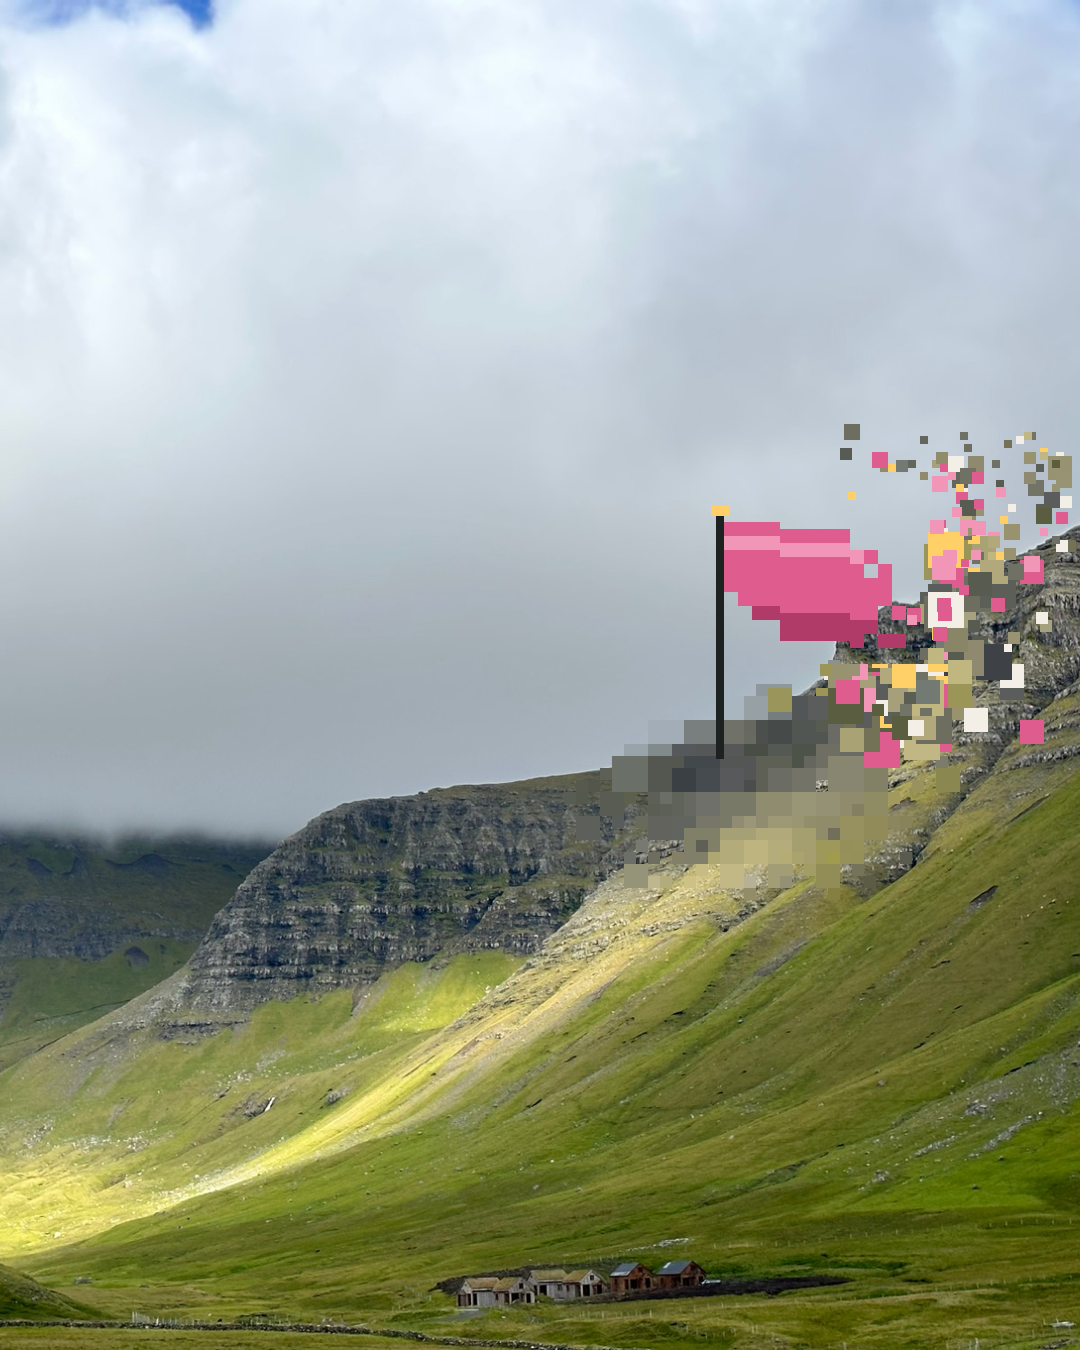
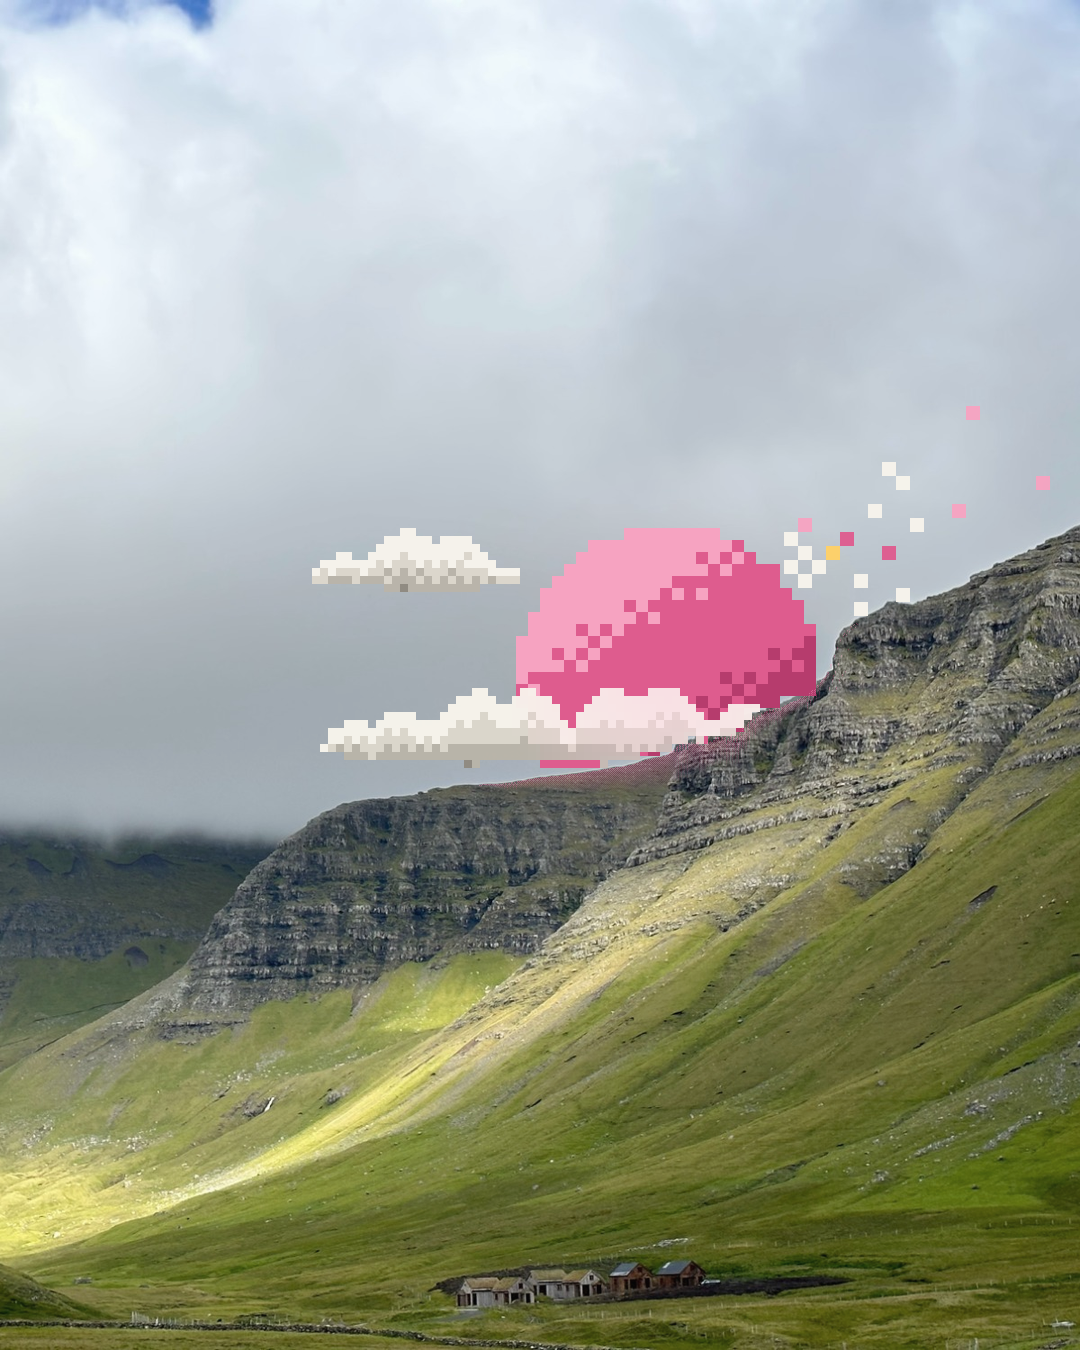
Elemental announcement: a pink pixel sun instead of the flag; CSII equal to the title
The plate is now drawn with the key poster's pixel kit
(scripts/render-elemental-news-plate.mjs): one flat stepped sun behind the
ridge, stepped pixel clouds, checker sparks. The title lockup sets
Elemental Hackathon and the CSII logo at equal weight.

diff --git a/components/hackathon/poster/elemental/news/ElementalNewsPoster.tsx b/components/hackathon/poster/elemental/news/ElementalNewsPoster.tsx
@@ -17,14 +17,15 @@ import { ELEMENTAL, thaiDayRange } from "../facts";
  * (Angpao, same day: "look at our main poster why is it good replicate it
  * not put text all screen with no design"):
  * - one picture fills the sheet, at full brightness, with one bright object
- *   in a calm photo. Here a pink pixel flag on the ridge, breaking into
- *   pixels as on slide 1; pink is Chula's colour on these posters;
+ *   in a calm photo. Here a pink pixel sun coming up behind the ridge, with
+ *   pixel clouds; pink is Chula's colour on these posters;
  * - three sizes of type only: the title on the sky, one row of small facts
  *   with pixel icons, one big yellow line on the dark foot;
  * - type sits on calm parts of the picture, never on a box;
  * - the same anchors: names top left, QR code bottom right, one line at the
  *   bottom.
- * The plate is made by scripts/make-elemental-news-plate.py from a photo
+ * The plate is made by scripts/render-elemental-news-plate.mjs (the pixel
+ * kit the key poster uses) from a photo
  * slides 1 and 2 don't use. Facts come from ../facts.ts only.
  */
 
@@ -82,20 +83,23 @@ export function ElementalNewsPoster({ id = "elemental-news" }: { id?: string }) 
           {/* What kind of post it is. */}
           <span style={{ marginLeft: 8, fontFamily: EL_FONT.display, fontWeight: 500, fontSize: 24, lineHeight: "34px", background: EL.ink, color: HIGHLIGHT, padding: "0 14px" }}>อัปเดตใหม่</span>
         </div>
-        {/* The event × CSII as the title (Angpao, 2026-11-26: "use Elemental Hackathon X CSII logo at the top make it stand out"). */}
-        <h1 className="m-0 mt-[20px]" style={{ fontFamily: EL_FONT.display, lineHeight: 1.02, letterSpacing: "-0.01em" }}>
-          <span className="block" style={{ fontWeight: 200, fontSize: 124 }}>
-            <EditionWord />
-          </span>
-          <span className="flex items-center" style={{ gap: 26 }}>
-            <span style={{ fontWeight: 300, fontStyle: "italic", fontSize: 124 }}>Hackathon</span>
-            <span style={{ fontWeight: 200, fontSize: 72, color: EL.inkSoft }}>×</span>
-            {/* eslint-disable-next-line @next/next/no-img-element */}
-            <img src="/hackathon/partners/csii.png" alt="CSII, Chulalongkorn School of Integrated Innovation" width={245} height={80} style={{ marginTop: 14 }} />
-          </span>
-        </h1>
+        {/* The event × CSII as the title, the two sides equal: the name on two lines, the CSII logo as tall as its letters need to match, centred on it (Angpao, 2026-11-26: "use Elemental Hackathon X CSII logo at the top make it stand out", then "the CSII logo is not equal as elemental hackathon"). */}
+        <div className="flex items-center" style={{ marginTop: 22, gap: 30 }}>
+          {/* Set at slide 1's 124px and scaled as one piece, because the pixel letters in the name are drawn for that size. */}
+          <h1 className="m-0" style={{ fontFamily: EL_FONT.display, lineHeight: 1.02, letterSpacing: "-0.01em", zoom: 100 / 124 }}>
+            <span className="block" style={{ fontWeight: 200, fontSize: 124 }}>
+              <EditionWord />
+            </span>
+            <span className="block" style={{ fontWeight: 300, fontStyle: "italic", fontSize: 124 }}>
+              Hackathon
+            </span>
+          </h1>
+          <span style={{ fontFamily: EL_FONT.display, fontWeight: 200, fontSize: 76, lineHeight: "76px", color: EL.inkSoft }}>×</span>
+          {/* eslint-disable-next-line @next/next/no-img-element */}
+          <img src="/hackathon/partners/csii.png" alt="CSII, Chulalongkorn School of Integrated Innovation" width={368} height={120} />
+        </div>
         {/* The facts as one row under the title, in ink on the sky. The date leads, with the old one crossed out. */}
-        <div className="flex flex-wrap items-center gap-x-[18px] gap-y-[6px]" style={{ width: 640, marginLeft: 4, marginTop: 10, fontFamily: EL_FONT.display, fontWeight: 400, fontSize: 23, lineHeight: "32px" }}>
+        <div className="flex flex-wrap items-center gap-x-[18px] gap-y-[6px]" style={{ width: 700, marginLeft: 4, marginTop: 16, fontFamily: EL_FONT.display, fontWeight: 400, fontSize: 23, lineHeight: "32px" }}>
           <Fact icon="date" color={EL.ink}>
             <span className="relative" style={{ color: EL.inkSoft, marginRight: 10 }}>
               {OLD_RANGE}
